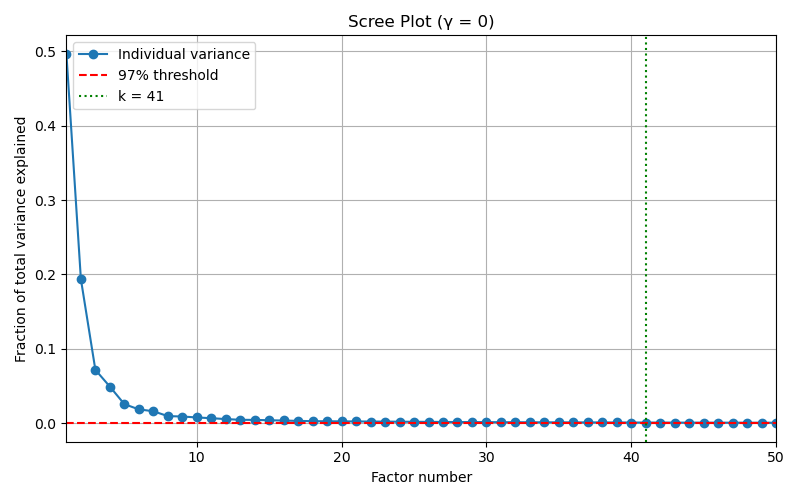
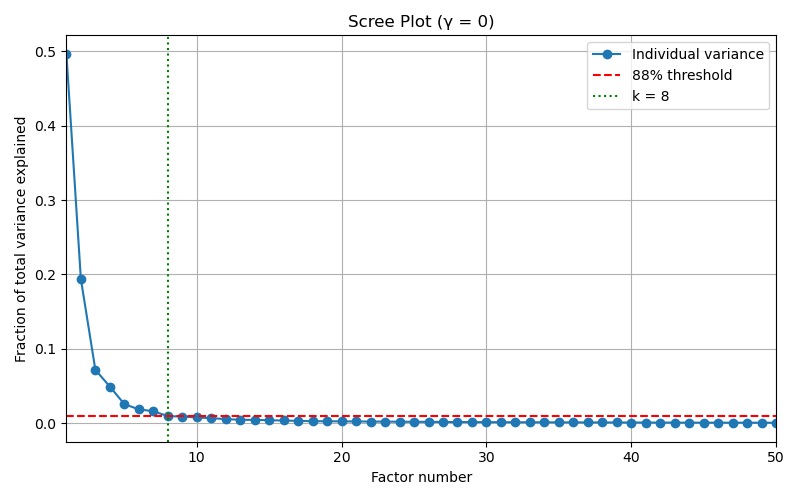
Add files via upload

diff --git a/Code/multifactor_model.py b/Code/multifactor_model.py
@@ -3,7 +3,17 @@ import pandas as pd
 import matplotlib.pyplot as plt
 
 def rolling_window(assetReturns, multifactors, gamma=-1, threshold = 0.97, riskfreeRate=0.0025):
-    k_threshold, cumulative_var_ratio, combined_factors, F = determine_factors(
+    """
+    Determines the out-of-sample rolling window.
+
+    :param assetReturns: The return matrix
+    :param multifactors: The factor matrix
+    :param gamma: The penalty term
+    :param threshold: The minimum % of variance that is explained by PCA
+    :param riskfreeRate: The risk-free rate
+    :return: The Sharpe ratio, alphas and the ARIV
+    """
+    k_threshold, cumulative_var_ratio, combined_factors = determine_factors(
         assetReturns,
         multifactors,
         gamma=gamma,
@@ -50,6 +60,16 @@ def rolling_window(assetReturns, multifactors, gamma=-1, threshold = 0.97, riskf
     return sharpe_ratio, oos_alpha, rms_alpha, idiosyncratic_var, ariv, k_threshold, combined_factors
 
 def determine_factors(assetReturns, multifactors, gamma=-1, threshold = 0.97, riskfreeRate=0.0025):
+    """
+    "Determine the number of factors needed to explain the threshold % of variance"
+
+    :param assetReturns: The return matrix
+    :param multifactors: The factor matrix
+    :param gamma: The penalty term
+    :param threshold: The minimum % of variance that should be explained by a PC
+    :param riskfreeRate: The risk-free rate
+    :return: The k belonging to threshold, cumulative fraction of explained variance and the combined portfolio
+    """
     excessReturns = assetReturns - riskfreeRate
 
     combined_factors = pd.concat([excessReturns, multifactors], axis=1, join='inner')
@@ -69,7 +89,7 @@ def determine_factors(assetReturns, multifactors, gamma=-1, threshold = 0.97, ri
 
     explained_var_ratio = eigvals / eigvals.sum()
     cumulative_var_ratio = np.cumsum(explained_var_ratio)
-    k_threshold = int(np.argmax(cumulative_var_ratio >= threshold)) +1
+    k_threshold = int(np.argmax(explained_var_ratio <= threshold)) +1
 
     plt.figure(figsize=(8, 5))
     x = np.arange(1, len(eigvals) + 1)
@@ -77,7 +97,7 @@ def determine_factors(assetReturns, multifactors, gamma=-1, threshold = 0.97, ri
     plt.plot(x, explained_var_ratio, 'o-', label='Individual variance')
 
     # Horizontal line at the 97% threshold
-    plt.axhline(y=float(explained_var_ratio[k_threshold-1]), color='red', linestyle='--', label=f'{int(threshold * 100)}% threshold')
+    plt.axhline(y=float(explained_var_ratio[k_threshold-1]), color='red', linestyle='--', label=f'{int(cumulative_var_ratio[k_threshold-1] * 100)}% threshold')
 
     # Optional vertical line showing where it's reached
     plt.axvline(x=k_threshold, color='green', linestyle=':', label=f'k = {k_threshold}')
@@ -91,12 +111,12 @@ def determine_factors(assetReturns, multifactors, gamma=-1, threshold = 0.97, ri
     plt.tight_layout()
     plt.show()
 
-    print(f"{k_threshold} factors needed to explain {100*cumulative_var_ratio[k_threshold]:.2f}% of the variance")
+    print(f"{k_threshold} factors needed to explain {100*cumulative_var_ratio[k_threshold-1]:.2f}% of the variance")
 
     idx = np.argsort(eigvals)[::-1][:k_threshold]
     Lambda = eigvecs[:, idx]
 
-    return k_threshold, cumulative_var_ratio, combined_factors, Lambda
+    return k_threshold, cumulative_var_ratio, combined_factors
 
 def pca(excessReturns, gamma=-1, factors=3):
     """
